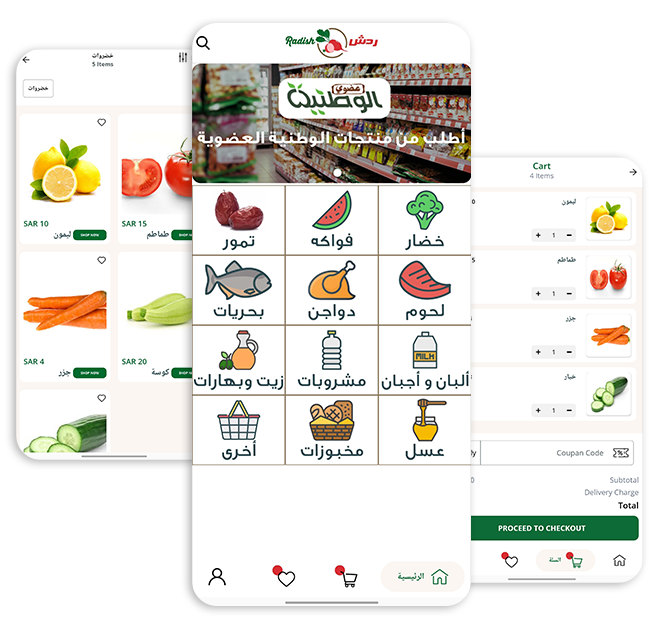
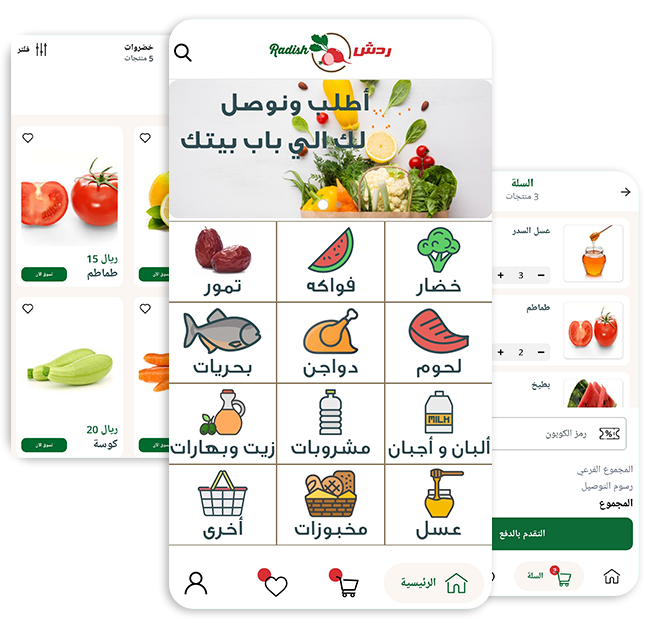
updated images

diff --git a/css/styles.css b/css/styles.css
@@ -450,14 +450,38 @@ header {
   width: 85%;
 }
 .content .btn-main {
-  background-image: -moz-linear-gradient(-180deg, #8282e6 0, #a2a5f4 100%);
-  background-image: -webkit-linear-gradient(-180deg, #8282e6 0, #a2a5f4 100%);
-  background-image: -ms-linear-gradient(-180deg, #8282e6 0, #a2a5f4 100%);
+  background-image: -moz-linear-gradient(
+    -180deg,
+    #d82e34 0,
+    rgb(199, 132, 88) 100%
+  );
+  background-image: -webkit-linear-gradient(
+    -180deg,
+    #d82e34 0,
+    rgb(199, 132, 88) 100%
+  );
+  background-image: -ms-linear-gradient(
+    -180deg,
+    #d82e34 0,
+    rgb(199, 132, 88) 100%
+  );
 }
 .content .btn-main:hover {
-  background-image: -moz-linear-gradient(-180deg, #a2a5f4 0, #8282e6 100%);
-  background-image: -webkit-linear-gradient(-180deg, #a2a5f4 0, #8282e6 100%);
-  background-image: -ms-linear-gradient(-180deg, #a2a5f4 0, #8282e6 100%);
+  background-image: -moz-linear-gradient(
+    -180deg,
+    #d82e34 0,
+    rgb(199, 132, 88) 100%
+  );
+  background-image: -webkit-linear-gradient(
+    -180deg,
+    #d82e34 0,
+    rgb(199, 132, 88) 100%
+  );
+  background-image: -ms-linear-gradient(
+    -180deg,
+    #d82e34 0,
+    rgb(199, 132, 88) 100%
+  );
 }
 .mock {
   padding-top: 260px;

diff --git a/css/styles-rtl.css b/css/styles-rtl.css
@@ -9,17 +9,17 @@ h3 {
 .form-submit {
   background-image: -moz-linear-gradient(
     -180deg,
-    #f7d7b8 0,
+    #d82e34 0,
     rgb(199, 132, 88) 100%
   );
   background-image: -webkit-linear-gradient(
     -180deg,
-    #f7d7b8 0,
+    #d82e34 0,
     rgb(199, 132, 88) 100%
   );
   background-image: -ms-linear-gradient(
     -180deg,
-    #f7d7b8 0,
+    #d82e34 0,
     rgb(199, 132, 88) 100%
   );
 }
@@ -28,17 +28,17 @@ h3 {
   background-image: -moz-linear-gradient(
     -180deg,
     rgb(199, 132, 88) 0,
-    #f7d7b8 100%
+    #d82e34 100%
   );
   background-image: -webkit-linear-gradient(
     -180deg,
     rgb(199, 132, 88) 0,
-    #f7d7b8 100%
+    #d82e34 100%
   );
   background-image: -ms-linear-gradient(
     -180deg,
     rgb(199, 132, 88) 0,
-    #f7d7b8 100%
+    #d82e34 100%
   );
 }
 .navbar-nav > li {
